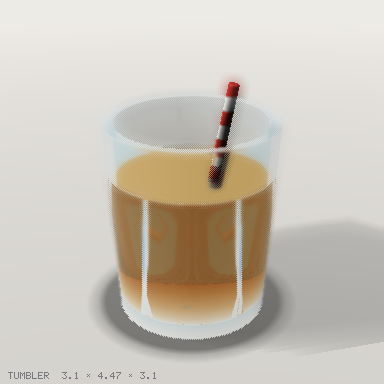
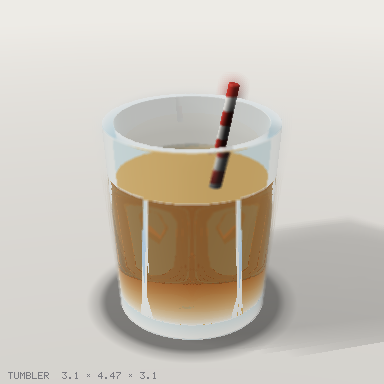
The beauty render's priming depth pass draws glass solid
The beauty render starts each ray where the rasterised mesh says the
surface is, and the screen door for glass punched holes in that depth,
so rays behind a pane started late and four beauty renders changed by a
few hundred pixels at their glass (measured on a lighthouse's lantern).
The priming pass now draws glass solid; those four renders are back to
the bytes they had before the screen door.

Claude-Session: https://claude.ai/code/session_01N4aZPpcvrkPPm1NLagjFQU

diff --git a/src/render/raster.ts b/src/render/raster.ts
@@ -22,6 +22,8 @@ export interface RenderOptions {
   outline?: boolean;
   /** Ignore per-vertex materials and show everything in this colour (for the steps sheet). */
   flatColor?: Vec3;
+  /** Draw glass solid rather than as a screen door: for a depth pass that primes rays, which must not see holes. */
+  solidGlass?: boolean;
 }
 
 export interface RenderTarget {
@@ -102,7 +104,7 @@ export function renderMesh(mesh: Mesh, cam: Camera, target: RenderTarget, opts: 
   // it shows through the checker and a pendulum behind a glazed door is on the pose sheet and the animation strip
   // (measured: both showed a grey pane and a clock in which nothing moved). No sorting or blending needed.
   const seeThrough = mesh.materials.map((m) => m.transmit > 0.3);
-  const anyGlass = seeThrough.some(Boolean) && !flat;
+  const anyGlass = seeThrough.some(Boolean) && !flat && !opts.solidGlass;
   for (let t = 0; t < ix.length; t += 3) {
     const a = ix[t], b = ix[t + 1], c = ix[t + 2];
     if (!visible[a] || !visible[b] || !visible[c]) continue;

diff --git a/src/render/beauty.ts b/src/render/beauty.ts
@@ -73,7 +73,7 @@ export function renderBeauty(shape: Shape3, mesh: Mesh, bounds: Bounds, opts: Be
 
   // Prime with the mesh: view depth per pixel.
   const prime = createTarget(size, size, 0);
-  renderMesh(mesh, cam, prime, { background: 0, outline: false });
+  renderMesh(mesh, cam, prime, { background: 0, outline: false, solidGlass: true });
   const f = size / 2 / Math.tan(((cam.fov ?? 30) * Math.PI) / 360);
 
   const rayDir = (px: number, py: number): Vec3 => {
